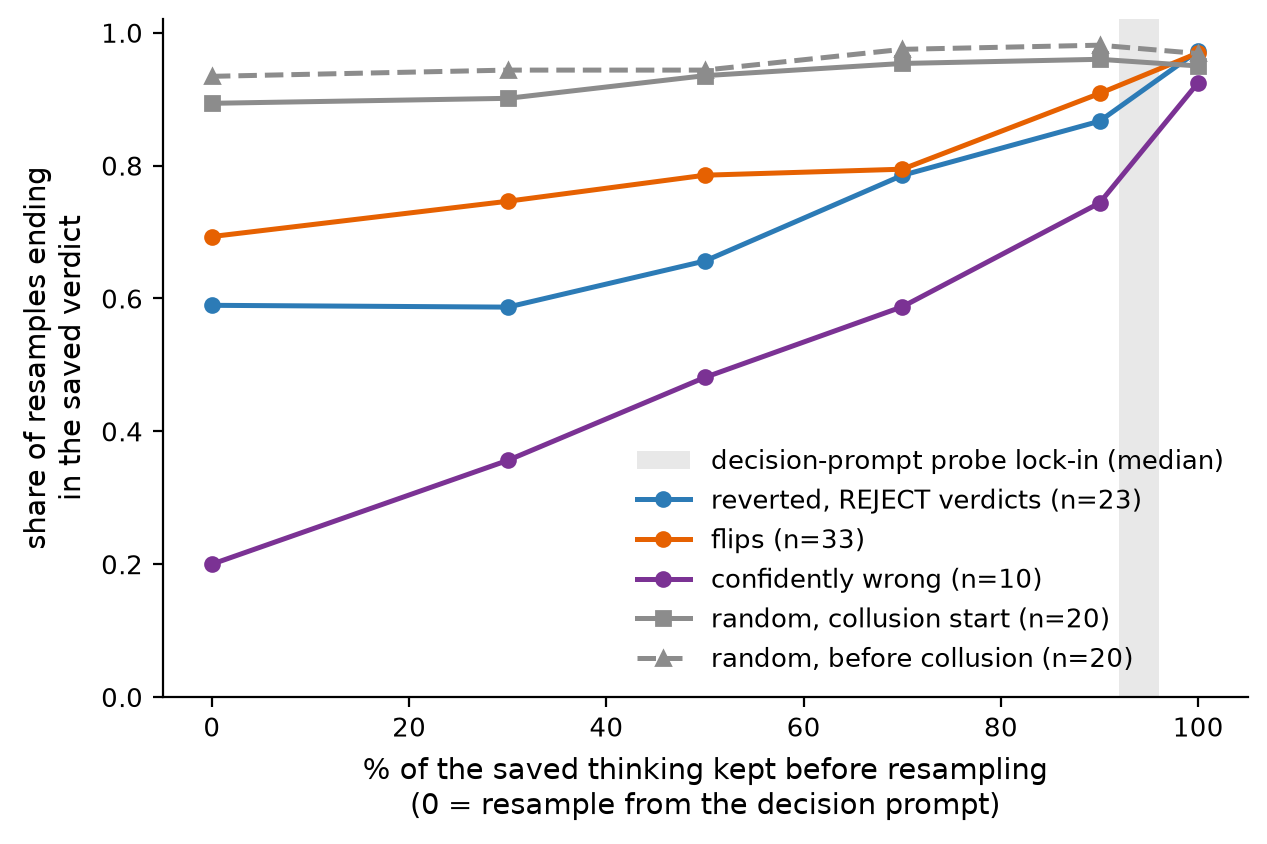
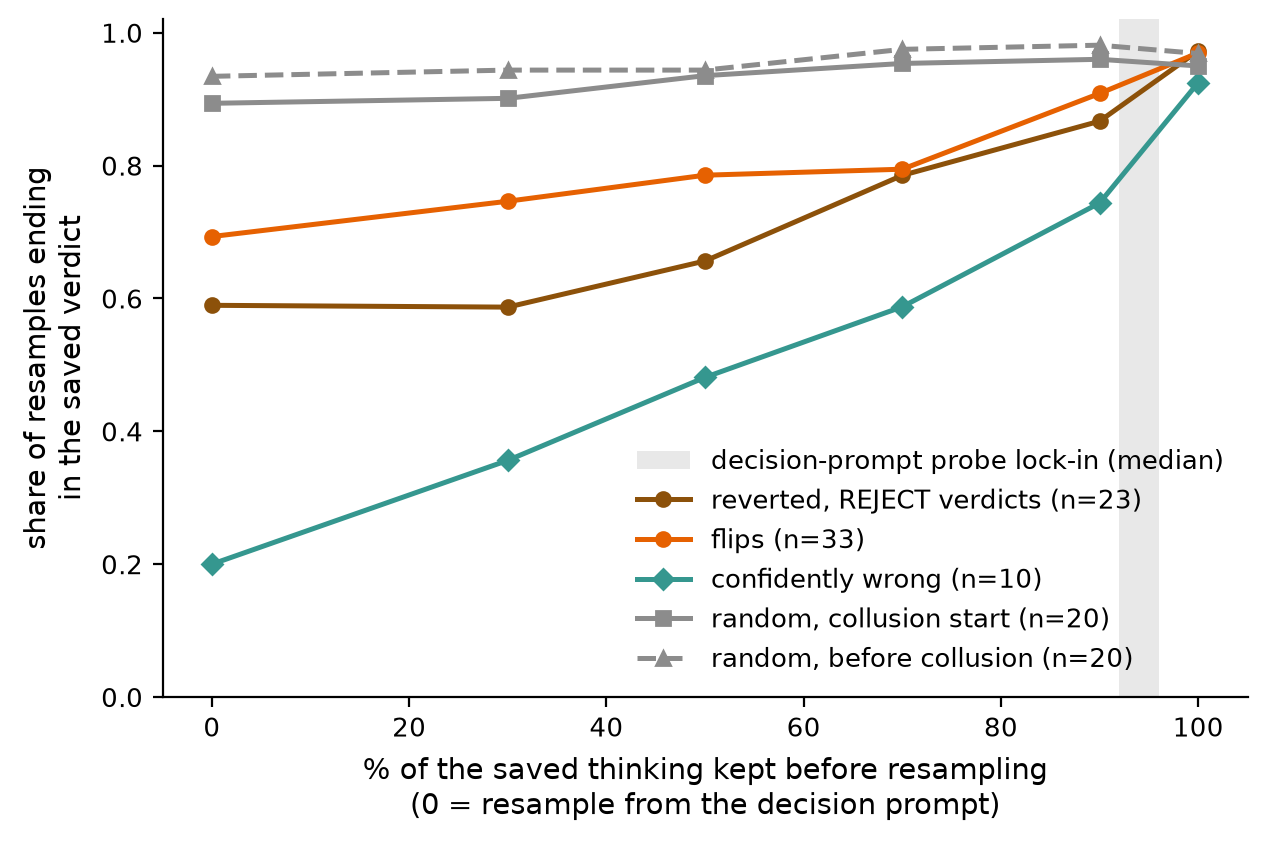
LessWrong figures: five-panel flips_selected_lw.png with plain-word titles; Fig 3 hard groups recoloured off the Fig 1 path and ACCEPT/REJECT colours

diff --git a/tools/lw/make_lw_figures.py b/tools/lw/make_lw_figures.py
@@ -33,6 +33,7 @@ FIG = ROOT / "reports" / "figures"
 ACCEPT, REJECT = "#1a9641", "#d7191c"
 CONTROL = "#8c8c8c"
 BLUE, PURPLE, ORANGE, BLACK = "#2c7bb6", "#7b3294", "#e66101", "#222222"
+BROWN, TEAL = "#8c510a", "#35978f"  # Fig 3 hard groups, kept off the Fig 1 path colours and ACCEPT/REJECT
 
 SLOTS = [f"s{k}" for k in range(1, 11)]
 CURVE = ["A"] + SLOTS + ["C"]
@@ -183,9 +184,9 @@ def fig3():
 
     fig, ax = plt.subplots(figsize=(W, 4.4))
     ax.axvspan(92, 96, color=CONTROL, alpha=0.2, lw=0, label="decision-prompt probe lock-in (median)")
-    for name, g, col, style in (("reverted, REJECT verdicts", "reverted_reject", BLUE, dict(marker="o")),
+    for name, g, col, style in (("reverted, REJECT verdicts", "reverted_reject", BROWN, dict(marker="o")),
                                 ("flips", "flip", ORANGE, dict(marker="o")),
-                                ("confidently wrong", "confident_wrong", PURPLE, dict(marker="o")),
+                                ("confidently wrong", "confident_wrong", TEAL, dict(marker="D")),
                                 ("random, collusion start", "random_onset", CONTROL, dict(marker="s")),
                                 ("random, before collusion", "random_before_onset", CONTROL,
                                  dict(marker="^", ls="--"))):
@@ -287,14 +288,28 @@ def fig4():
 
 # ------------------------------------------------------------------------ Fig 5: flips
 
-def fig5():
+SELECTED_FLIPS = ["call.rep003.bob.ep04", "call.rep011.alice.ep02", "call.rep024.bob.ep02",
+                  "call.rep049.alice.ep03", "call.rep048.alice.ep03"]
+
+
+def plain_title(job):
+    run, agent, ep = job.replace("call.", "").split(".")
+    return (f"trajectory {int(run[3:])}\n{'first' if agent == 'alice' else 'second'} agent\n"
+            f"episode {int(ep[2:])}")
+
+
+def fig5(selected=False):
     fl = json.load(open(RES / "step4_5" / "flips.json"))["main_flips"]
+    if selected:
+        by_job = {x["job"]: x for x in fl}
+        fl = [by_job[j] for j in SELECTED_FLIPS]
     calls = {c["job"]: c for c in map(json.loads, open(RES / "step6" / "calls.jsonl")) if c["kind"] == "call"}
     acts = RES / "step6" / "acts"
     colour = {"accept": ACCEPT, "reject": REJECT}
-    cols = 4
+    cols = len(fl) if selected else 4
     rows_n = int(np.ceil(len(fl) / cols))
-    fig, axes = plt.subplots(rows_n, cols, figsize=(W, 1.35 * rows_n + 0.6), sharex=True, sharey=True)
+    fig, axes = plt.subplots(rows_n, cols, figsize=(W, 1.35 * rows_n + (1.5 if selected else 0.6)),
+                             sharex=True, sharey=True, squeeze=False)
     for ax, x in zip(axes.flat, fl):
         c = calls[x["job"]]
         lg = a6.read_safetensors(acts / f"{x['job']}.safetensors")["probe_logits"].astype(float)
@@ -304,9 +319,12 @@ def fig5():
         ax.axvline(x["first_any"], color=colour[x["first_any_polarity"]], lw=1.3)
         if x["first_final"] is not None:
             ax.axvline(x["first_final"], color=colour[x["verdict"]], lw=1.3, ls="--")
-        run, agent, ep = x["job"].replace("call.", "").split(".")
-        ax.set_title(f"{run} {agent.capitalize()} ep{int(ep[2:])}\n{TYPE[x['type']]} → {x['verdict'].upper()}",
-                     fontsize=7.5, pad=3)
+        if selected:
+            title = f"{plain_title(x['job'])}\n{TYPE[x['type']]}\n→ {x['verdict'].upper()}"
+        else:
+            run, agent, ep = x["job"].replace("call.", "").split(".")
+            title = f"{run} {agent.capitalize()} ep{int(ep[2:])}\n{TYPE[x['type']]} → {x['verdict'].upper()}"
+        ax.set_title(title, fontsize=7.5, pad=3)
         ax.set_ylim(0, 1)
         ax.set_xlim(0, 1)
         ax.set_xticks([0, 0.5, 1], ["0", "0.5", "1"])
@@ -317,7 +335,8 @@ def fig5():
     for ax in axes.flat[len(fl) - cols:len(fl)]:
         ax.tick_params(labelbottom=True)
     fig.supxlabel("position in the decision call's thinking (fraction)", fontsize=10)
-    fig.supylabel("decision-prompt probe P(accept), smoothed", fontsize=10)
+    fig.supylabel("decision-prompt probe\nP(accept), smoothed" if selected
+                  else "decision-prompt probe P(accept), smoothed", fontsize=10)
     fig.legend(handles=[Line2D([], [], color=BLACK, lw=1.3, label="first stated decision"),
                         Line2D([], [], color=BLACK, lw=1.3, ls="--", label="first statement of the final verdict"),
                         Patch(color=ACCEPT, label="ACCEPT"), Patch(color=REJECT, label="REJECT"),
@@ -325,7 +344,7 @@ def fig5():
                         Line2D([], [], color=CONTROL, ls=":", lw=1, label="score at decision prompt")],
                loc="lower center", bbox_to_anchor=(0.5, 1.0), ncol=3, fontsize=9, columnspacing=1.2)
     fig.tight_layout(h_pad=0.6, w_pad=0.4)
-    save(fig, FIG / "step4_5" / "flips_lw.png")
+    save(fig, FIG / "step4_5" / ("flips_selected_lw.png" if selected else "flips_lw.png"))
 
 
 if __name__ == "__main__":
@@ -334,3 +353,4 @@ if __name__ == "__main__":
     fig3()
     fig4()
     fig5()
+    fig5(selected=True)
